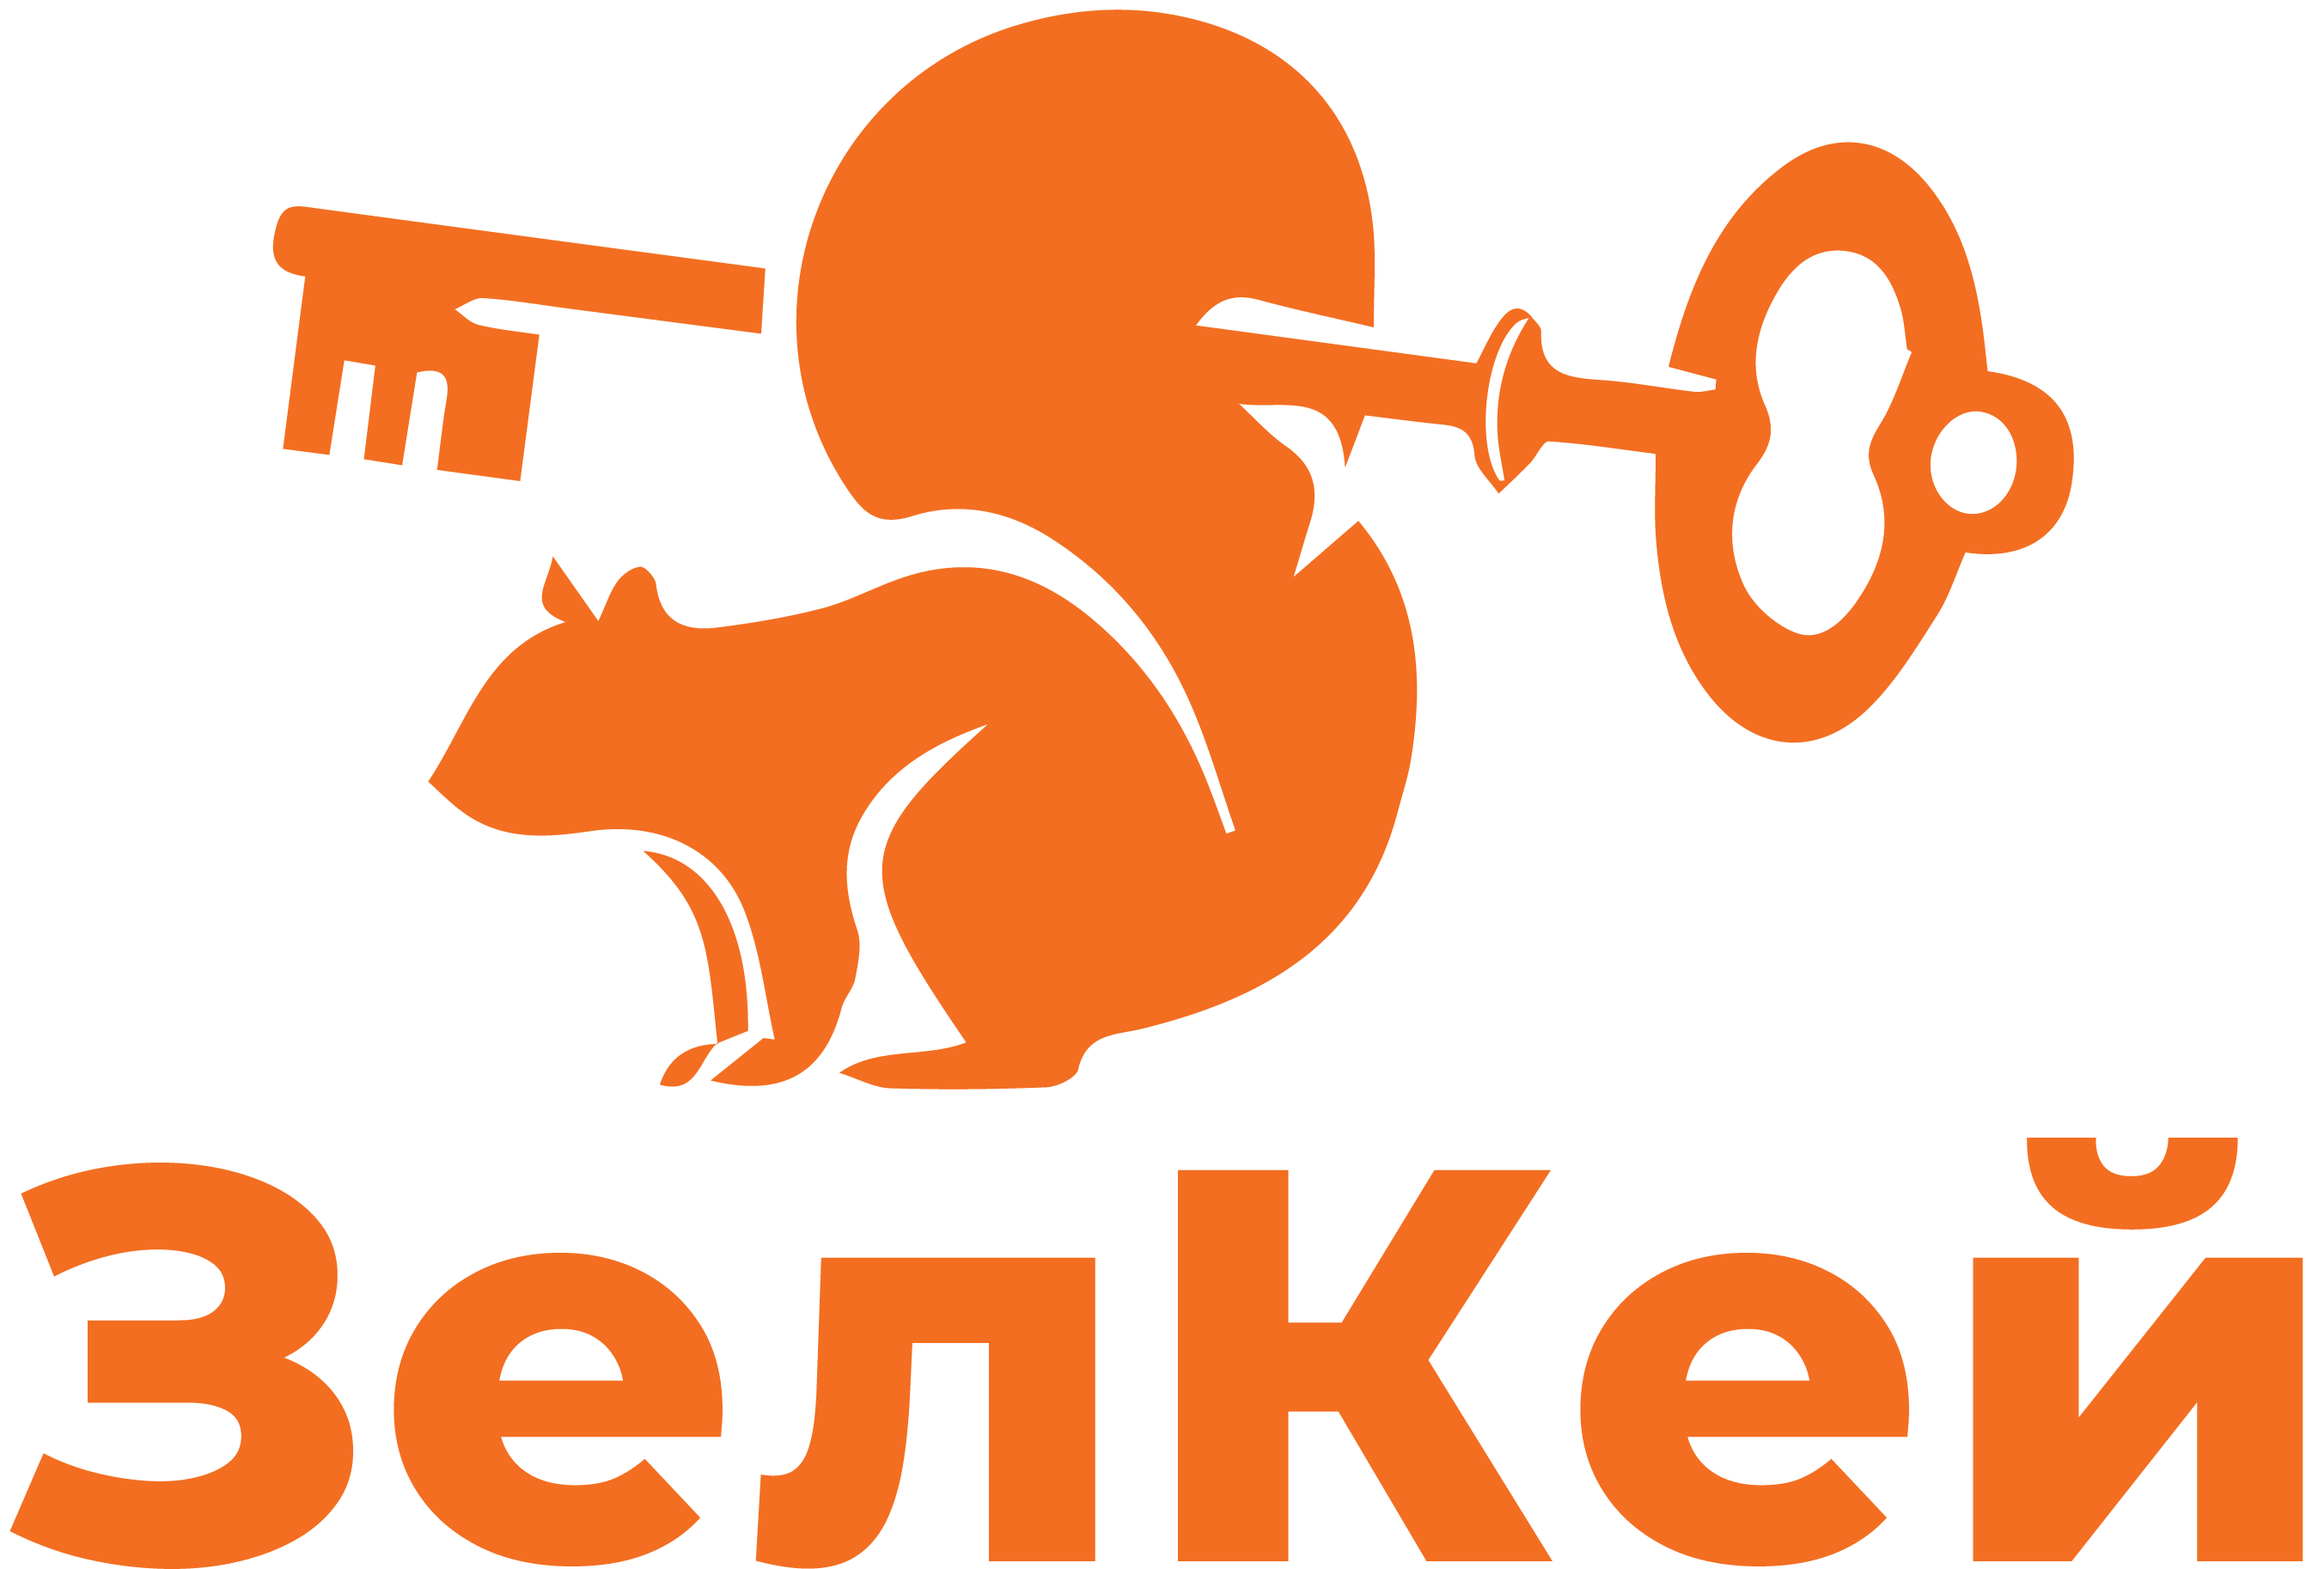
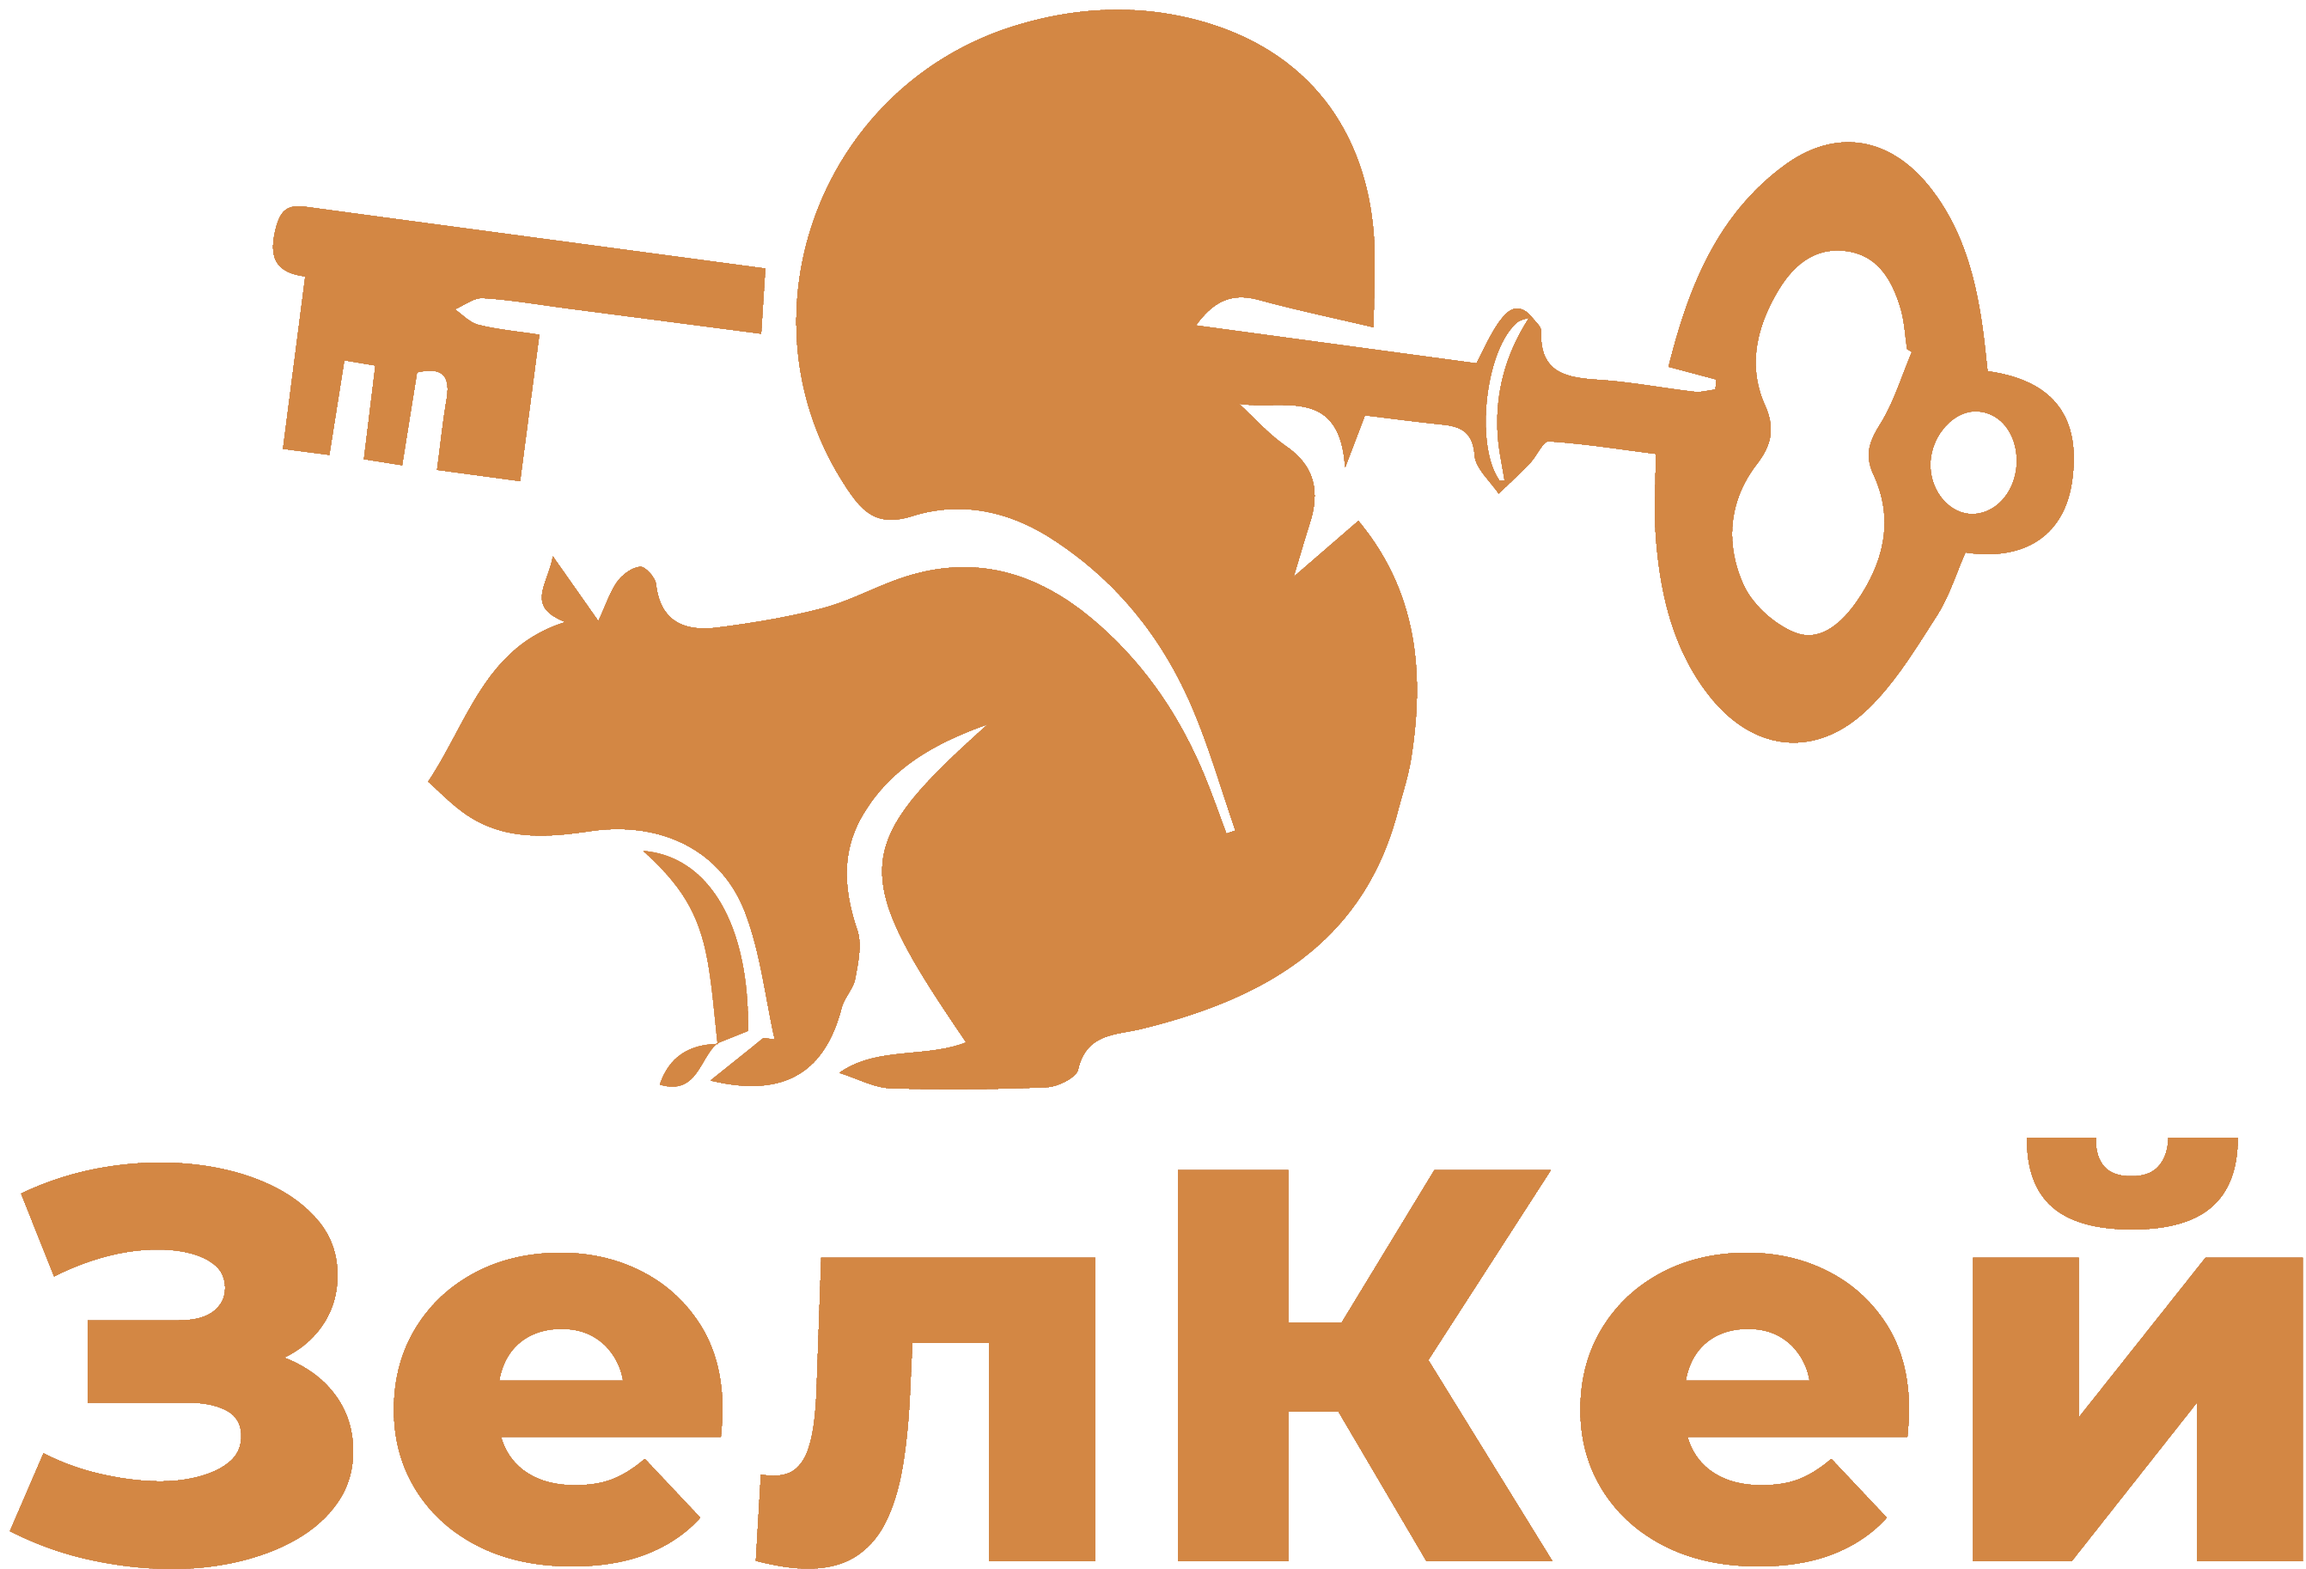
main

diff --git a/index.html b/index.html
@@ -139,7 +139,7 @@
 				<div class="category"><h5>Адрес:</h5></div>
 				<div class="adr"><h4><span itemprop="streetAddress">г. Зеленоград, корп. 234А, ТК "Атак", <br> цокольный этаж, пав. 6</span></h4></div>
 				<div class="category"><h5>Режим работы:</h5></div>
-				<div class="adr"><h4><span itemprop="streetAddress">пн - пт c 10:00 до 19:00, сб с 10:00 до 17:00, воскресенье - выходной</span></h4></div>
+				<div class="adr"><h4><span itemprop="streetAddress">пн - пт c 10:00 до 19:00, <br>сб с 10:00 до 17:00, <br>воскресенье - выходной</span></h4></div>
 				<div class="category"><h5>Контакты:</h5></div>
 				<div class="value"><a title="телефон" href="tel:+79684399373" rel="nofollow"><span itemprop="telephone">+7 968 439-93-73</span></a>
 				<br><br>

diff --git a/css/style.css b/css/style.css
@@ -71,7 +71,7 @@ body {
 h2 {
 	font-size: 40px;
 	font-family: Roboto-Bold, sans-serif;
-	color: #ab8b6a;
+	color: #d38744;
 }
 h3 {
 	font-size: 24px;
@@ -106,7 +106,7 @@ p {
 	height: 100%;
 }
 .mask {
-	background-color: #191919;
+	background-color: #18181C;
 	position: absolute;
 	left: 0px;
 	top: 0px;
@@ -126,7 +126,7 @@ header {
 	align-items: center;
 	width: 100%;
 	height: 60px;
-	border-bottom: 1px solid #393938;
+	border-bottom: 1px solid #18181C;
 }
 .contacts {
 	display: inline-flex;
@@ -154,7 +154,7 @@ header {
 .logo {
 	font-family: Calypso, sans-serif;
 	font-size: 60px;
-	color: #d0a87f;
+	/*color: #d0a87f;*/
 	align-items: center;
 	text-align: center;
 	text-transform: uppercase;
